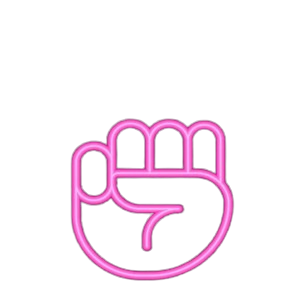
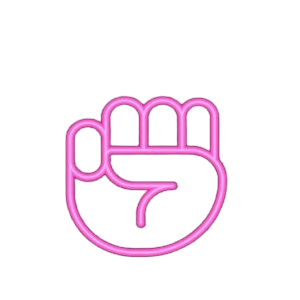
final but minimal

Changed region(s): [[0.21, 0.3, 0.78, 0.96]]

diff --git a/index.html b/index.html
@@ -1,30 +1,65 @@
 <!DOCTYPE html>
 <html lang="en">
+
 <head>
     <meta charset="UTF-8">
     <meta name="viewport" content="width=device-width, initial-scale=1.0">
     <title>Rock-paper-scissors</title>
+    <!-- Bootstrap CSS -->
+    <link href="https://cdn.jsdelivr.net/npm/bootstrap@5.3.0/dist/css/bootstrap.min.css" rel="stylesheet">
     <link rel="stylesheet" href="css/style.css">
 </head>
+
 <body>
-    <div class="game">
-        <div class="cpu">
-            <div class="cpu-image">
-                <div class="hand1">
-                    <img src="images/stone.png" alt="">
-                </div>
-                <div class="hand2">
-                    <img src="images/stone.png" alt="">
+    <div class="container">
+        <div class="row col-md-12">
+            <div class="col-sm-12 col-md-6 mx-auto">
+                <div class="game">
+                    <div class="cpu">
+                        <div class="cpu-images">
+                            <h1 class="score">Score Board</h1>
+                            <div class="cpu-image">
+                                <div class="hand1">
+                                    <h1 class="name">CHAD : <span class="score-chad">00</span></h1>
+                                    <img class="img-fluid" src="images/stone.png" alt="">
+                                </div>
+                                <div class="hand2">
+                                    <h1 class="name">YOU : <span class="score-you">00</span></h1>
+                                    <img class="img-fluid" src="images/stone.png" alt="">
+                                </div>
+                            </div>
+                        </div>
+                        <div class="result">
+                            <h1>Lets play...</h1>
+                        </div>
+                    </div>
                 </div>
             </div>
-        </div>
-        <div class="user">
-            <div class="user-image">
-                <div class="hand-paper"></div>
-                <div class="hand-stone"></div>
-                <div class="hand-scissors"></div>
+
+            <div class="col-sm-12 col-md-6 mx-auto">
+                <div class="user">
+                    <div class="user-image">
+                        <div class="hand-paper">
+                            <img class="img-fluid" src="images/paper.png" alt="">
+                            <p>Paper</p>
+                        </div>
+                        <div class="hand-stone">
+                            <img class="img-fluid" src="images/stone.png" alt="">
+                            <p>Stone</p>
+                        </div>
+                        <div class="hand-scissors">
+                            <img class="img-fluid" src="images/scissors.png" alt="">
+                            <p>Scissor</p>
+                        </div>
+                    </div>
+                </div>
             </div>
         </div>
     </div>
+
+    <!-- Bootstrap JS (optional, but recommended for certain features) -->
+    <script src="https://cdn.jsdelivr.net/npm/bootstrap@5.3.0/dist/js/bootstrap.bundle.min.js"></script>
+    <script src="js/script.js"></script>
 </body>
+
 </html>

diff --git a/js/script.js b/js/script.js
@@ -1,0 +1,64 @@
+const game = document.querySelector('.game'),
+    cpuimage = document.querySelector('.hand1 img'),
+    userimage = document.querySelector('.hand2 img'),
+    result = document.querySelector('.result h1'),
+    optionhand = document.querySelectorAll('.user-image div'),
+    chadscore=document.querySelector(".score-chad"),
+    youscore=document.querySelector(".score-you");
+
+optionhand.forEach((image, index) => {
+    image.addEventListener('click', (e) => {
+        
+        image.classList.add("active");
+
+        optionhand.forEach((imageN, indexN) => {
+            if (image != imageN) {
+                imageN.classList.remove("active");
+            }
+        })
+        result.textContent = "Wait..."
+        game.classList.add("start");
+
+        let cpuhand = ["images/stone.png", "images/paper.png", "images/scissors.png"];
+        let currentIndex = 0;
+
+        let intervalId = setInterval(() => {
+            cpuimage.src = cpuhand[currentIndex];
+            currentIndex = (currentIndex + 1) % cpuhand.length;
+        }, 100);
+
+        setTimeout(() => {
+            clearInterval(intervalId);
+        }, 2500);
+        image.style.opacity="1";
+        let time = setTimeout(() => {
+            image.style.opacity=".6";
+            e.target.style.opacity="1";
+            
+            game.classList.remove("start");
+            let opthand = e.target.src;
+            userimage.src = opthand;
+
+            let randomnum = Math.floor(Math.random() * 3);
+            let cpuhand = ["images/stone.png", "images/paper.png", "images/scissors.png"];
+
+            cpuimage.src = cpuhand[randomnum];
+            let cpuvalue = ['r', 'p', 's'][randomnum];
+            let uservalue = ['p', 'r', 's'][index];
+
+            let outcome = {
+                pp: "Draw",
+                pr: "cpu",
+                ps: "user",
+                rp: "user",
+                rr: "Draw",
+                rs: "cpu",
+                sp: "cpu",
+                sr: "user",
+                ss: "Draw",
+            }
+            let outcomevalue = outcome[cpuvalue + uservalue];
+            result.textContent = uservalue === cpuvalue ? "Match Draw 😁" : `${outcomevalue} Won 😎!!`;
+        }, 2500);
+    });
+});

diff --git a/css/style.css b/css/style.css
@@ -8,11 +8,38 @@ body{
     display: flex;
     align-items: center;
     justify-content: center;
-    padding: 5em;
+    overflow: hidden;
+    height: 100vh;
 }
 .game{
-    background-color: grey;
+    padding: 5px;
+    border-radius: 1em;
+    background-color: aliceblue;
+    box-shadow: 0 5px 10px rgba(0, 0, 0, 0.5);
 }
+.game.start .hand1{
+    animation: shake1 .7s ease infinite;
+}
+@keyframes shake1 {
+    50%{
+        transform: translateY(10px);
+    }
+}
+.game.start .hand2{
+    animation: shake2 .7s ease infinite;
+}
+@keyframes shake2 {
+    50%{
+        transform: translateY(10px);
+    }
+}
+.game h1{
+    color: #f781db;
+    text-align: center;
+    font-size: 4em;
+    font-weight: 600;
+}
+
 .cpu .cpu-image{
     display: flex;
     align-items: center;
@@ -21,7 +48,61 @@ body{
 }
 .hand1 img{
     width: 15em;
+    transform: rotate(90deg) rotateY(180deg);
 }
 .hand2 img{
     width: 15em;
+    transform: rotate(-90deg);
+}
+.user .user-image{
+    display: flex;
+    align-items: center;
+    justify-content: space-between;
+    text-align: center;
+    margin-top: 2em;
+}
+.game.start .user-image{
+    pointer-events: none;
+}
+.hand-stone ,
+.hand-scissors ,
+.hand-paper {
+    opacity: .6;
+    transition: opacity .3s ease;
+    cursor: pointer;
+}
+.hand-stone:hover ,
+.hand-scissors:hover ,
+.hand-paper:hover{
+    opacity: 1;
+} 
+.hand-stone img,
+.hand-scissors img,
+.hand-paper img{
+    width: 10em;
+    filter: drop-shadow(0 5px 10px rgba(100, 162, 216, 0.863));
+    
+}
+.hand-stone p{
+    color: #f781db;
+    font-size: 2em;
+    font-weight: 700;
+}
+.hand-paper p{
+    color: #4babe9;
+    font-size: 2em;
+    font-weight: 700;
+}
+.hand-scissors p{
+    color: #f6da55;
+    font-size: 2em;
+    font-weight: 700;
+    pointer-events: none;
+}
+
+@media (max-width:562px) {
+    .game h1{
+        font-size: 2.5em;
+        font-weight: 600;
+    }
 }
